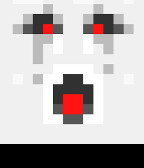
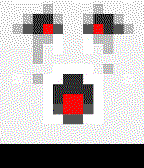
5 new baddies
I've begged him to stop. Who knew there were so many villains in minecraft

diff --git a/src/c/main.c b/src/c/main.c
@@ -9,7 +9,7 @@ char msg[13];
 static void update_watch_bg() {
   gbitmap_destroy(rogue);
   msg[0] = '\0';
-  switch (rand() % 7) {
+  switch (rand() % 13) {
     case 0:
       rogue = gbitmap_create_with_resource(RESOURCE_ID_IMG_CREEPER);
       strcat(msg, "  NOOoooOO!!");
@@ -37,6 +37,30 @@ static void update_watch_bg() {
     case 6:
       rogue = gbitmap_create_with_resource(RESOURCE_ID_IMG_ZOMBIEPIG);
       strcat(msg, "  SHOO!");
+      break;
+    case 7:
+      rogue = gbitmap_create_with_resource(RESOURCE_ID_IMG_DRAGON);
+      strcat(msg, "  OH CRUM.");
+      break;
+    case 8:
+      rogue = gbitmap_create_with_resource(RESOURCE_ID_IMG_ZOMBIE);
+      strcat(msg, "  BRAAAINNNS");
+      break;
+    case 9:
+      rogue = gbitmap_create_with_resource(RESOURCE_ID_IMG_BLAZE);
+      strcat(msg, "  FIRE!");
+      break;
+    case 10:
+      rogue = gbitmap_create_with_resource(RESOURCE_ID_IMG_SKELETON);
+      strcat(msg, "  U Hungry?");
+      break;
+    case 11:
+      rogue = gbitmap_create_with_resource(RESOURCE_ID_IMG_STRAY);
+      strcat(msg, "  r u lost?");
+      break;
+    case 12:
+      rogue = gbitmap_create_with_resource(RESOURCE_ID_IMG_CAVESPIDER);
+      strcat(msg, "  BOO!");
       break;
   }
   bitmap_layer_set_bitmap(p_bg_layer, rogue);
